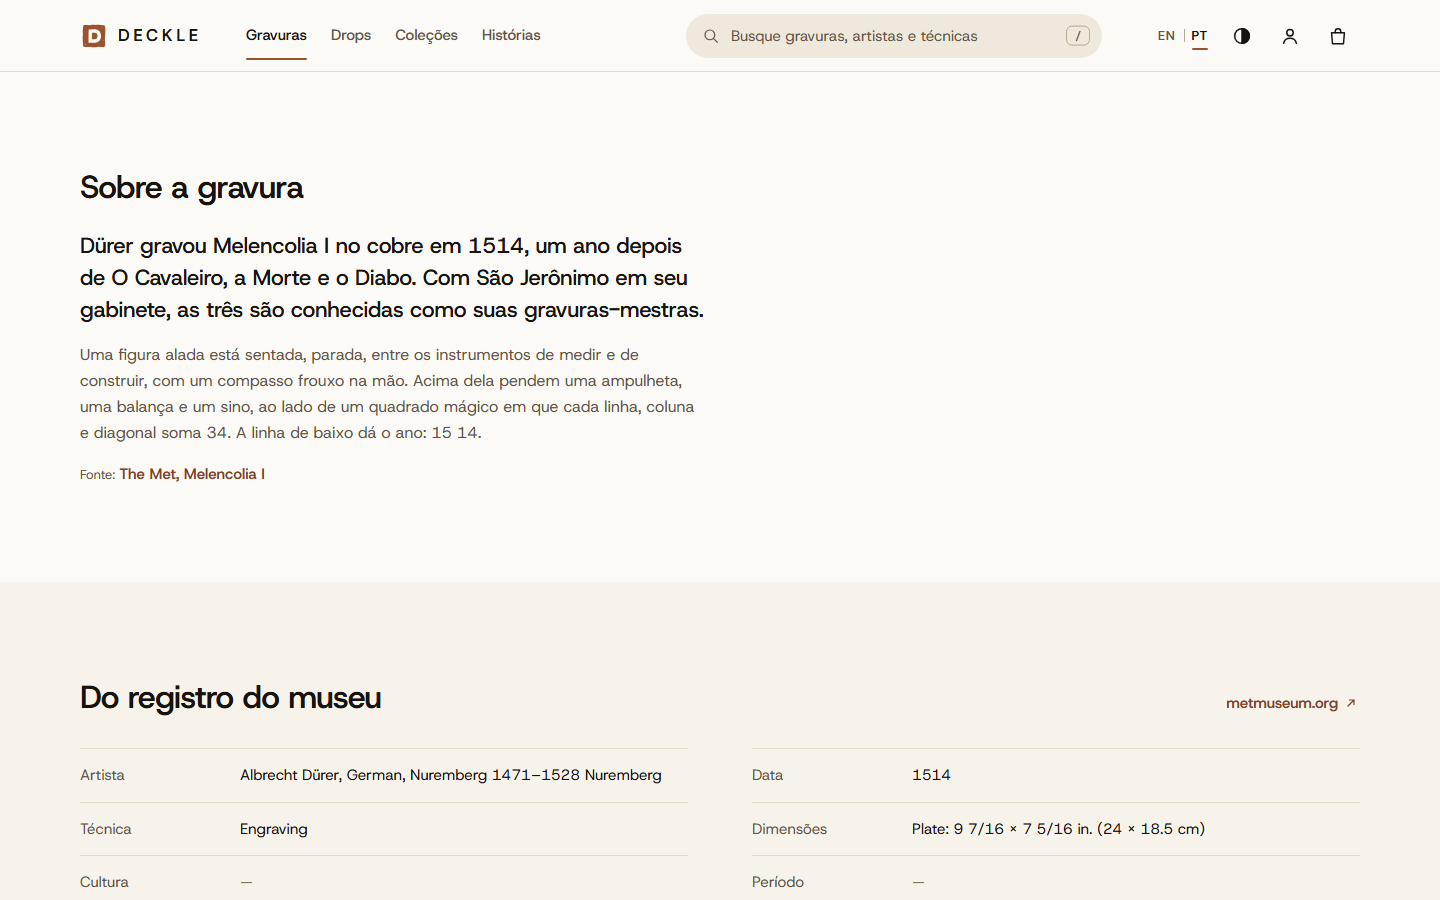
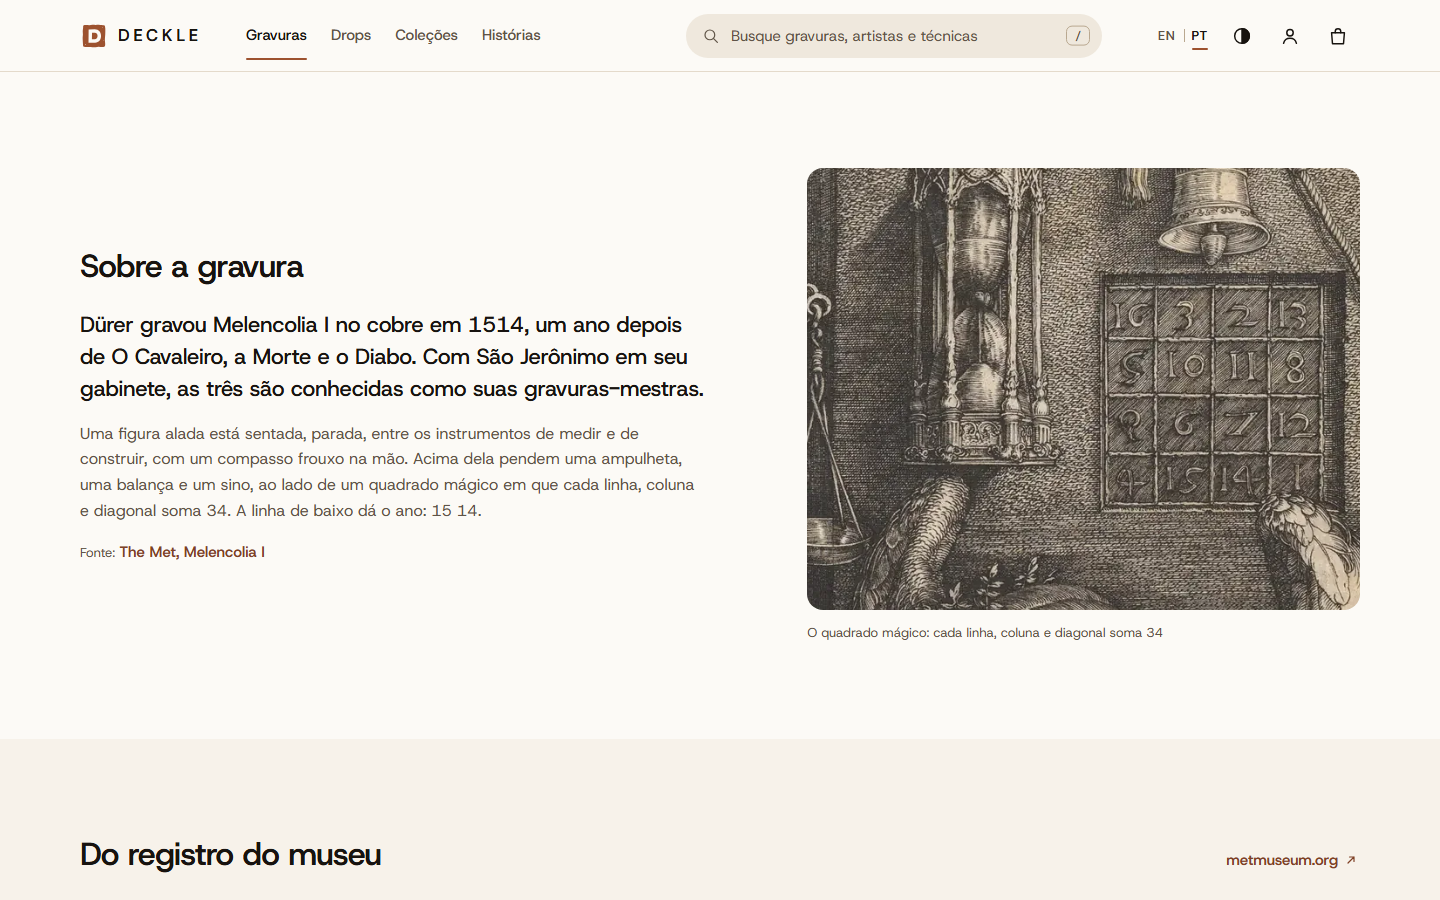
docs: take the portuguese screen again, with the story's detail

diff --git a/README.md b/README.md
@@ -35,7 +35,7 @@ Next.js 16, React 19.3, styled-components and Apollo Client 4 in front, a NestJS
 
 **A work's story in Brazilian Portuguese**
 
-![The story of Melencolia I in Portuguese, above the museum's record, whose entries stay in English as The Met wrote them](docs/screenshots/work-pt-light.png)
+![The story of Melencolia I in Portuguese, beside the detail of the magic square it describes, captioned in Portuguese](docs/screenshots/work-pt-light.png)
 
 **A draft in Payload, previewed on the store**
 
